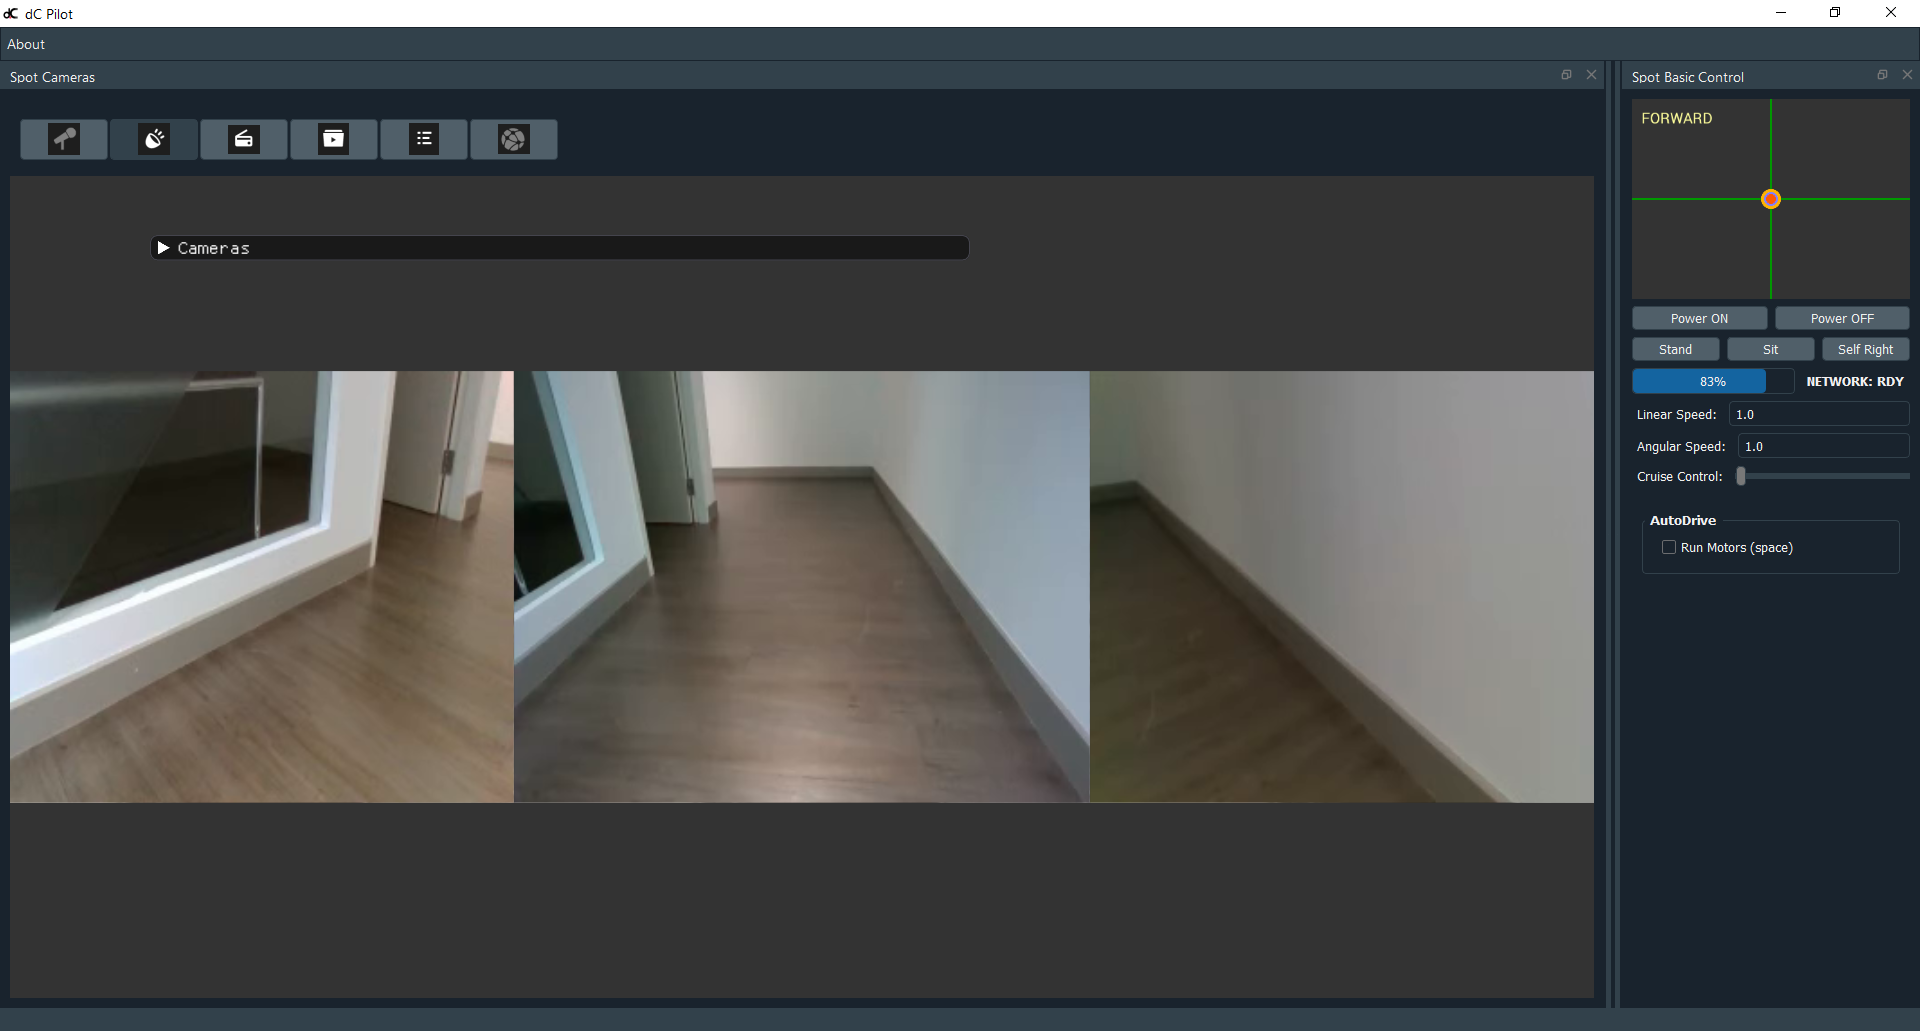
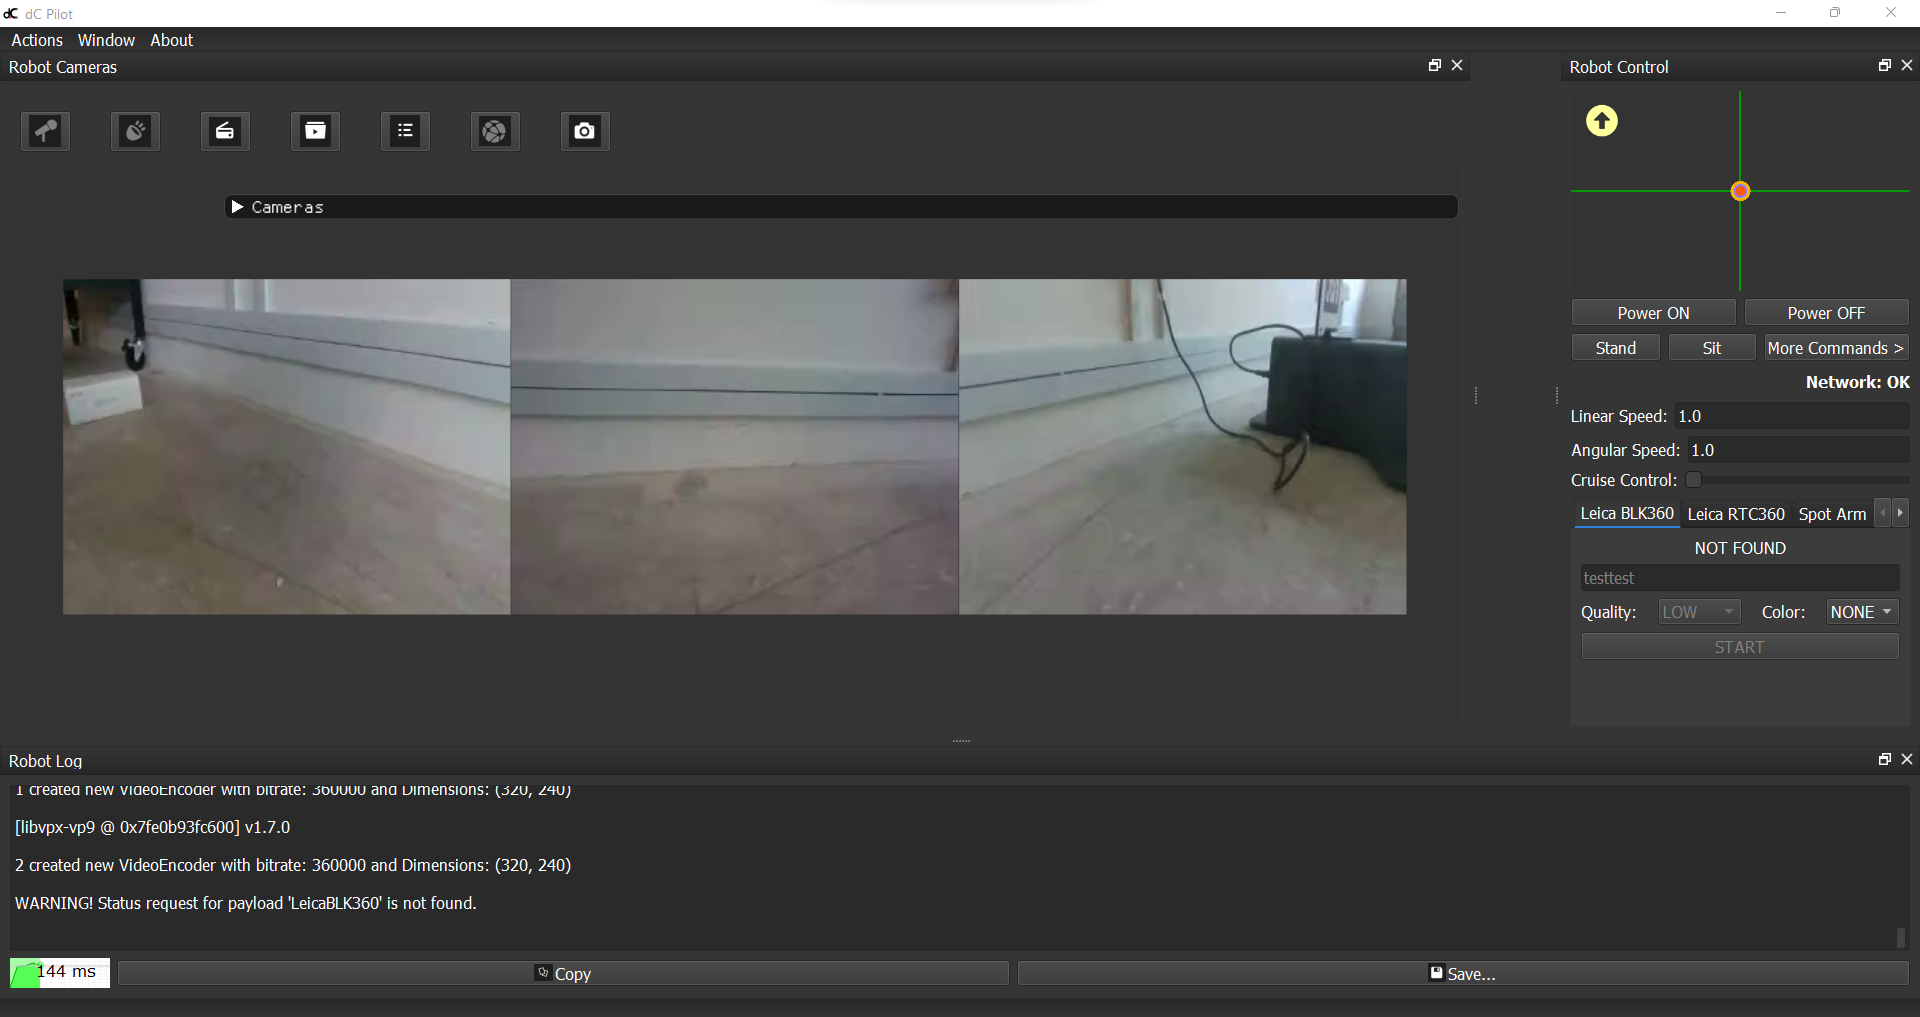
updating dc Pilot docs

diff --git a/docs/dc-pilot/pilot-guide.md b/docs/dc-pilot/pilot-guide.md
@@ -1,37 +1,60 @@
-# DC Pilot Client
+# dC Pilot Client
 
 The dC pilot is a GUI (graphical user interface) for the d.ASH SDK. It encompasses interactive visual components for you to control your robot both manually and autonomously. Operate your robots safely and precisely, from any location with our reliable and high-performance  BVLOS (Beyond Vision Line of Sight) System with high quality video streams and responsive controls. This section of the d.ASH SDK documentation provides details about using the d.C Pilot Client.
 
 --- 
 ### 1.1 Introduction
 
-The pilot client allows you to operate your robots safely and precisely, from any location via its high-performance BVLOS (Beyond Vision Line of Sight) system. It is also equipped with high quality video streams and responsive controls for seamless naviation. The system can also be used for fleet management, to discover, monitor and control multiple robots anytime, anywhere with real time video streaming and data collection.
+The pilot client allows you to operate your robots safely and precisely, from any location via its high-performance **Remote TeleOps/BVLOS (Beyond Vision Line of Sight)** system. It is also equipped with high quality video streams and responsive controls for seamless naviation. The system can also be used for fleet management, to discover, monitor and control multiple robots anytime, anywhere with real time video streaming and data collection.
 
 
-The vision auto-drive is another key feature of the d.C Pilot, using machine learning and computer vision to analyze and understand your robot's surroundings. This allows you to then plot and navigate complex, unstructured environments using just cameras. Some requirements before starting the d.C Pilot are: 
+The **Vision AutoDrive** is another key feature of the d.C Pilot, using machine learning and computer vision to analyze and understand your robot's surroundings. This allows hands-free Level 2 Autonomy for the navigation of complex, unstructured environments using just cameras alone. Some requirements before starting the d.C Pilot are: 
 
-1. Nvidia GPU enabled PC
+1. Nvidia CUDA GPU enabled PC ( At least 2 GB of GPU Memory )
 2. Joystick connected to the PC
+3. 1 GB local storage space
+4. 16 GB of CPU Memory
+5. Intel i5 CPU or equivalent
+6. Windows 10 64-bit OS or higher
+
+### 1.2 Robot Login
+
+When you first load up the pilot client, you will be asked to login via your user account. After authentication, you will be presented with the following screen below:
+
+| ![Screenshot](img/robot_select.png){ align=center style="width:400px"} | 
+
+The screen above shows you the robots switched ON and discovered via **dashBoard** ( the Fleet Management System ). Any robot currently registered under your user account and is alive will be displayed. Select the robot you want and click on **Take Control** to proceed to control the robot. If you want to restart the robot ( due to any unforseen previously encountered issues, ), click **Restart** to do so.
+
 
 ---
 
-### 1.2 ^^Main Controls^^
+### 1.3 ^^Main Controls^^
+| ![Screenshot](img/main-screen.png){ align=center style="width:1000px"} | 
+#### ^^Robot Power ON/OFF^^
+This is an optional step depending on the type of robot you are running. For most robots the robot is automatically turned ON when you physically attach a battery ( or press the actual Power ON button/switch ). For robots that need to be turned ON via software ( like the **Boston Dynamics Spot** ), you should turn it on by pressing the **Power ON** button before piloting the robot. Similary, you can **Power OFF** the robot if it supports such functionality.
 
-| Tutorial |
+| Basic Manual Piloting |
 | ------- | 
-| ![Screenshot](img/main-screen.png){ align=center style="width:800px"} | 
 | <font size="3"> To **start** the robot from rest, apply pressure on the joystick. |
 | <font size="3"> To **stop** the robot from moving, release your hold on the joystick. | 
 | <font size="3"> To move the robot **forwards**, push front on the joystick. |
 | <font size="3"> To move the robot **backwards**, pull back on the joystick. |
 | <font size="3"> To turn the robot to the **left**, tilt left on the joystick. | 
 | <font size="3"> To turn the robot to the **right**, tilt right on the joystick. |
-| <font size="3"> To get the robot to **stand** or **sit**, click the `stand` or `sit` button under the Basic Control panel on the right side of the main screen. |
+| <font size="3"> To get the robot to **stand** or **sit** ( if the Robot supports it ), click the `stand` or `sit` button under the Basic Control panel on the right side of the main screen. |
 ---
 
-### 1.3 ^^Control Pannel^^
+#### ^^Robot Reconnection/Restart ( Connectivity issues )^^
+If you encounter situations where you lose connection to the robot ( or encounter unstable video/control streams ), you should consider **Restarting/Reconnecting** with the robot. There are 2 options available:
 
-| Control Pannel |
+| ![Screenshot](img/actions-menu.png){ align=center style="width:200px"} |
+
+- **Reconnect:** This issues a fast reconnection between the pilot client and the robot. Run this if you suspect there was issue with connectivity between the client and the robot.
+- **Full Restart:** This will flush + restart the robot system, then reconnect the client to the robot when the robot system is ready. Run this if you need to do a full restart with the robot possibly due to issues other than connectivity.
+
+### 1.4 ^^Control Panel^^
+
+| Control Panel |
 | ------- | 
 | ![Screenshot](img/panel.png#center){ align=left style="width:700px"}| 
 | <font size="3"> (1)  &nbsp; Unmute the microphone to allow dual-communication between the pilot client and the robot.
@@ -43,7 +66,7 @@ The vision auto-drive is another key feature of the d.C Pilot, using machine lea
 
 ---
 
-### 1.4 ^^Basic Control^^
+### 1.5 ^^Basic Controls^^
 
 | Component | Description |
 | ------- | ------- |
@@ -51,8 +74,51 @@ The vision auto-drive is another key feature of the d.C Pilot, using machine lea
 
 ---
 
-### 1.5 ^^Cameras^^
+### 1.6 ^^Cameras^^
 
 | Component | Description |
 | ------- | ------- |
-| ![Screenshot](img/cameras.png#center){ align=left style="width:600px"} | <font size="3"> (1) &nbsp; Select from a list of cameras onboard Spot, which are automatically detected by the pilot client.  <br><br> (2) &nbsp; Adjust the order of cameras for a wider view scope. Ticking the flipped settings will adjust the camera orientation. <br><br> (3)  &nbsp; Activate human tracking for people detection and labelling. |
+| ![Screenshot](img/cameras.png#center){ align=left style="width:1200px"} | <font size="3"> (1) &nbsp; Select from a list of cameras onboard Spot, which are automatically detected by the pilot client.  <br><br> (2) &nbsp; Adjust the order of cameras for a wider view scope. Ticking the flipped settings will adjust the camera orientation. <br><br> (3) &nbsp; Click on sync to sync up the default camera layout/settings from the robot. You can also manually change the camera order via the Cameras drop-down combo box. <br><br> (4)  &nbsp; Activate human tracking for people detection and labelling. |
+
+### 1.7 ^^AutoDrive^^
+
+| ![Screenshot](img/autodrive.png){ align=center style="width:200px"} | 
+
+**AutoDrive** is our state of the art ML/Computer Vision Level 2 Autonomy system for robots. ***It requires a calibrated 3 camera setup*** in order to properly function. Please make sure you have the proper setup before continuing. The following options/controls are available:
+
+- **Run Motors:** This starts/stops the **AutoDrive** system
+- **Avoid Grass:** Checking this ON/OFF will tell the system whether to make the robot avoid/ignore a grassy area during Autonomy
+- **Log Data:** This will record any required data for sending during operation
+
+### 1.7 ^^Leica BLK360 Laser Scanner^^
+
+| ![Screenshot](img/BLK360.png){ align=center style="width:200px"} | 
+
+This panel enables you to running scanning with the **Leica BLK360 Laser Scanner**. Please make sure the scanner is properly mounted/connected before proceeding. Run the following steps to start scanning:
+
+1. Type in your Job Name in the textbox. This name will be used for the entire set of scans.
+2. Select your Scan quality via the **Quality** combo box.
+3. Select whether you want Color ( None, HDR, LDR ) via the **Color** combo box.
+4. Click **Start** to start the scanning operation.
+
+### 1.8 ^^Leica RTC360 Laser Scanner^^
+
+| ![Screenshot](img/RTC360.png){ align=center style="width:200px"} | 
+
+This panel enables you to running scanning with the **Leica RTC360 Laser Scanner**. Please make sure the scanner is properly mounted/connected before proceeding.  Run the following steps to start scanning:
+
+1. Type in your Job Name in the textbox. This name will be used for the entire set of scans.
+2. Select your Scan quality via the **Quality** combo box.
+3. Check the options **Imaging**, **Double Scan**, **VIS** for your RTC 360. Please consult your scanner user manual for more information on what those options do.
+4. Click **Start** to start the scanning operation.
+
+### 1.9 ^^Boston Dynamics Spot Arm^^
+
+| ![Screenshot](img/spot-arm.png){ align=center style="width:200px"} | 
+
+This panel enables you to operate the **Boston Dynamics Spot Arm** if your Spot robot has been configured with one. Please take note that your cameras should be set to **Spot's Default Black and White Cameras** in order for this to function. 
+
+1. Click **Operate** to start the Arm operation
+2. This will pop up a separate window that shows the black and white cameras on Spot.
+3. Click on the desired target area to run the arm manipulation operation.
+4. Click **Run** to start the arm operation.
